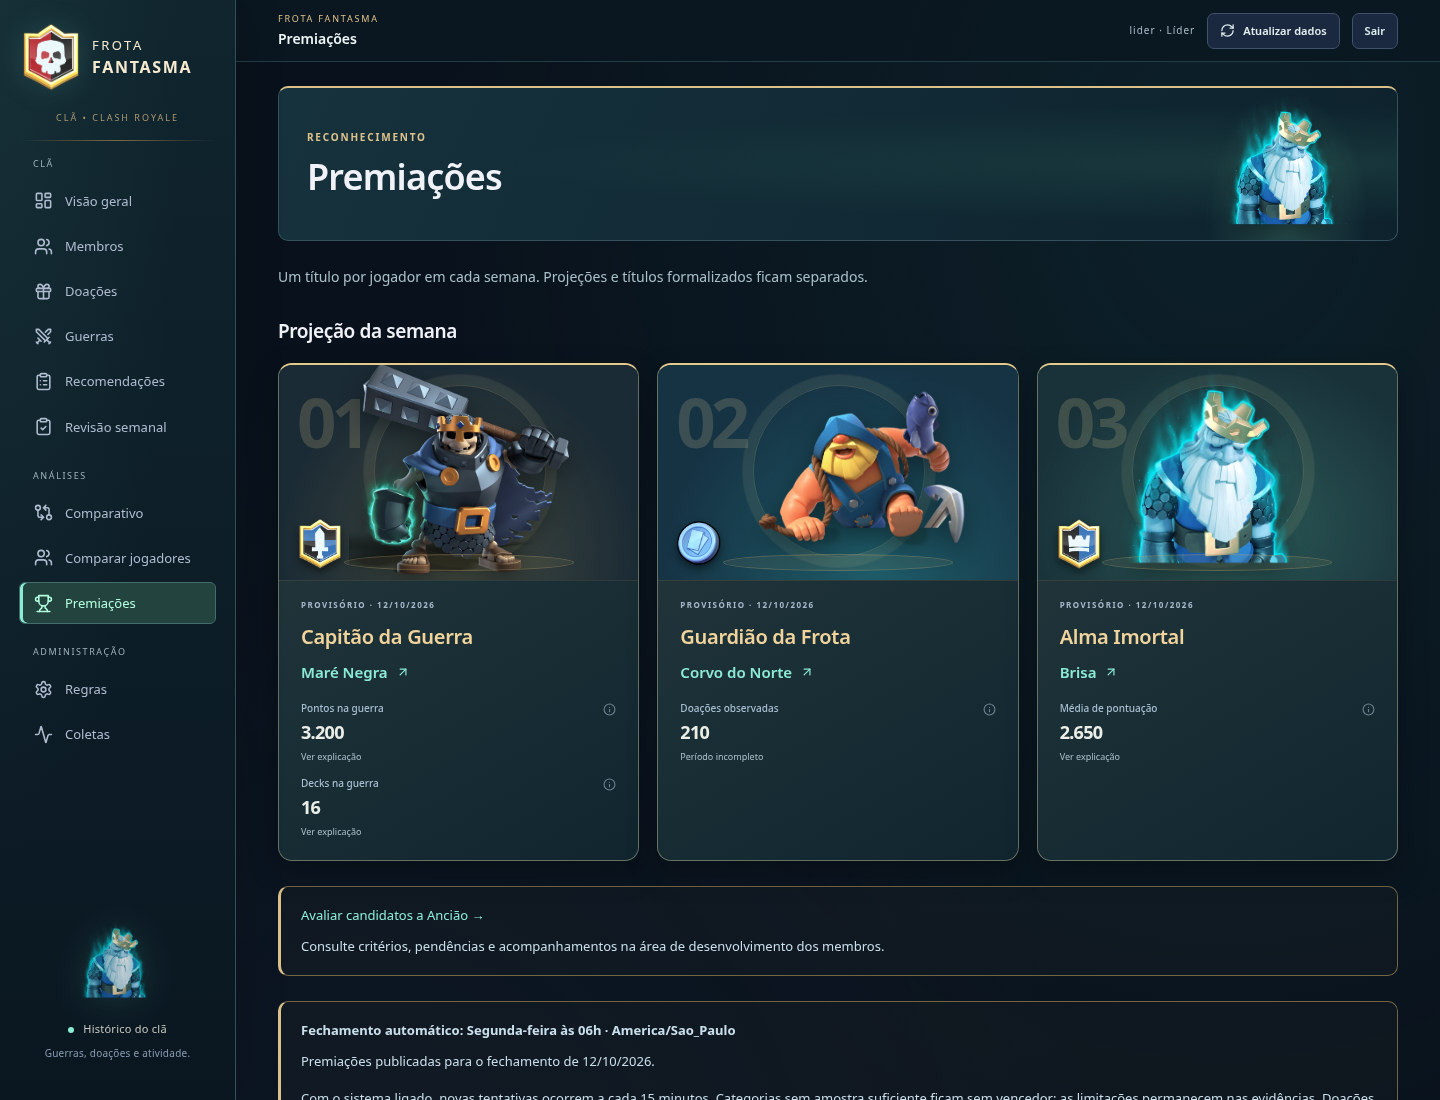
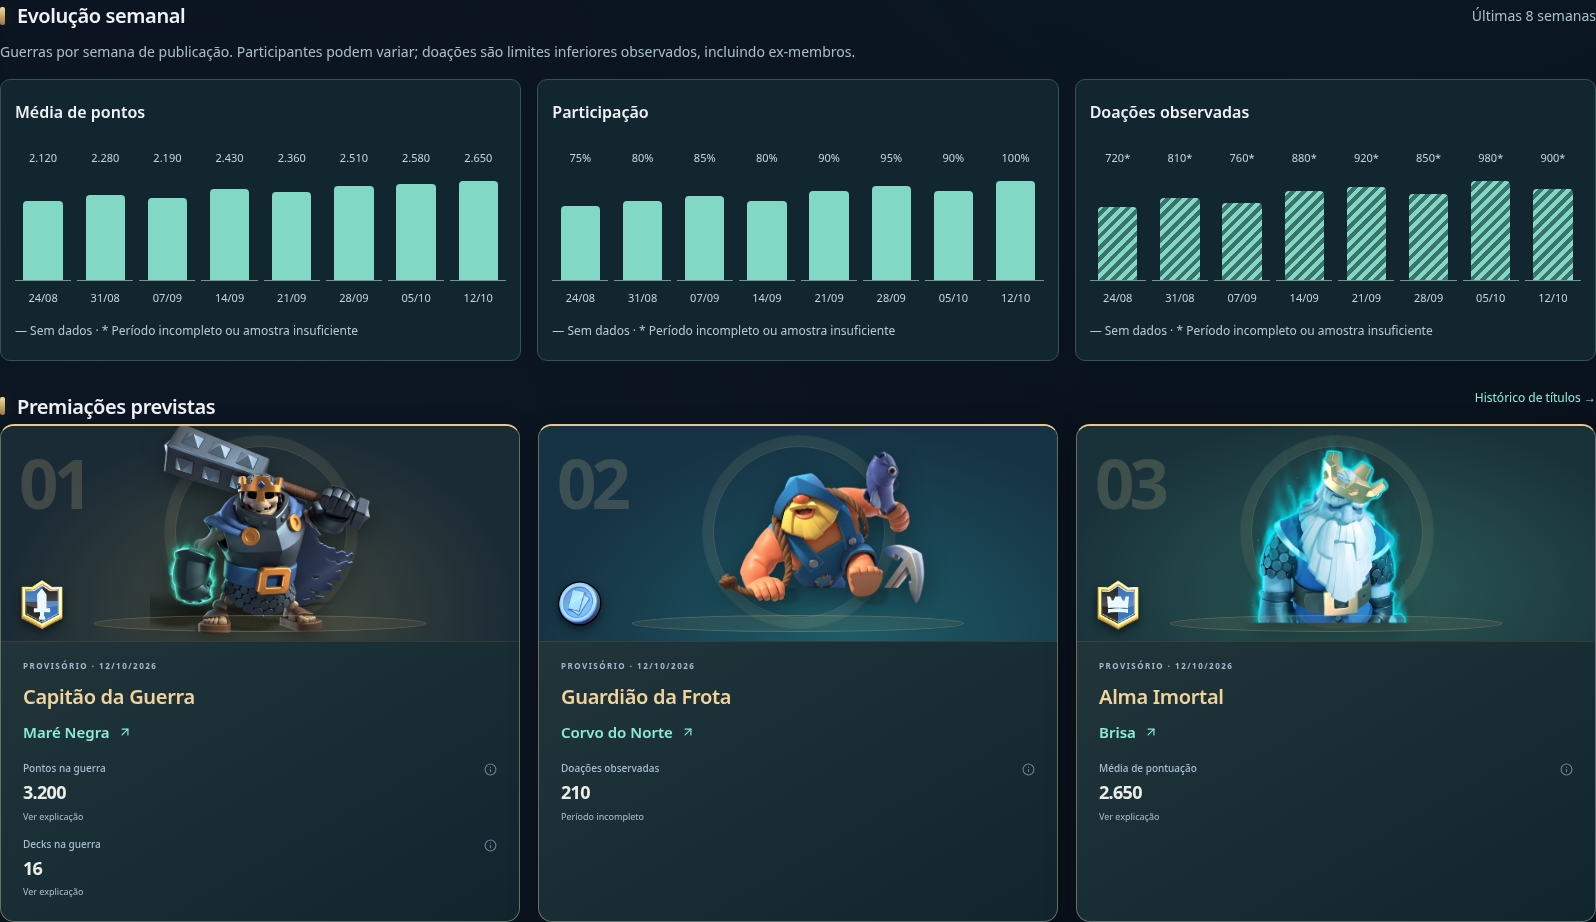
docs: destaca gráficos e premiações na galeria do README

diff --git a/frontend/e2e/analytics.spec.ts b/frontend/e2e/analytics.spec.ts
@@ -895,6 +895,15 @@ test.describe("galeria README", () => {
       p.metrics.standardDeckTargetPercent = metric((16-i)/16*100);
       p.metrics.recentAlerts = metric(i < 2 ? 0 : 1);
     });
+    demo.evolution = Array.from({length:8}, (_, i) => {
+      const week = new Date(`${demo.week}T00:00:00Z`);
+      week.setUTCDate(week.getUTCDate() - (7-i)*7);
+      return {week:week.toISOString().slice(0,10), metrics:{
+        averagePoints:metric([2120,2280,2190,2430,2360,2510,2580,2650][i]),
+        participationPercent:metric([75,80,85,80,90,95,90,100][i]),
+        observedDonations:metric([720,810,760,880,920,850,980,900][i], {incompletePeriod:true}),
+      }};
+    });
     demo.clan.currentMembers = metric(5);
     demo.clan.averageRecentPoints = metric(2650);
     demo.clan.participationPercent = metric(100);
@@ -931,15 +940,22 @@ test.describe("galeria README", () => {
       await expect(page.locator("main").getByRole("alert")).toHaveCount(0);
       expect(await page.evaluate(() => document.documentElement.scrollWidth <= innerWidth)).toBe(true);
       await page.mouse.move(0, 0);
-      await page.screenshot({path:`../docs/screenshots/readme/${name}.png`,animations:"disabled"});
+      let clip;
+      if (name === "awards") {
+        const charts = (await page.locator(".weekly-evolution").boundingBox())!;
+        const awards = (await page.locator(".overview > .awards").boundingBox())!;
+        clip = {x:charts.x,y:charts.y,width:charts.width,height:awards.y+awards.height-charts.y};
+      }
+      await page.screenshot({path:`../docs/screenshots/readme/${name}.png`,animations:"disabled",fullPage:!!clip,clip});
     };
     for (const [name, route] of [
       ["overview", "/"],
       ["war-comparison", "/comparativo"],
       ["candidates", "/recomendacoes"],
       ["player-profile", "/membros/%23P01"],
-      ["awards", "/premiacoes"],
+      ["awards", "/"],
     ]) {
+      if (name === "awards") await page.setViewportSize({width:1920,height:1400});
       await page.goto(route);
       await expect(page.locator("main h1")).toBeVisible();
       await expect(page.locator("main")).not.toContainText("Carregando registros…");
@@ -951,6 +967,7 @@ test.describe("galeria README", () => {
       }
       await capture(name);
     }
+    await page.setViewportSize({width:1440,height:1100});
     await page.goto("/membros/%23P01");
     await page.getByRole("button", {name:/Média das últimas 4 guerras/}).first().click();
     await expect(page.getByRole("dialog")).toBeVisible();

diff --git a/README.md b/README.md
@@ -92,13 +92,14 @@ na página.
 
 ## Premiações
 
-As premiações seguem três categorias:
+Os gráficos mostram a evolução semanal da pontuação, da participação e das
+doações. Logo abaixo, as premiações previstas destacam três categorias:
 
 - **Capitão da Guerra:** destaque pela pontuação na guerra.
 - **Guardião da Frota:** reconhecimento pelo maior contador de doações coletado na semana encerrada.
 - **Alma Imortal:** consistência ao longo das guerras analisadas.
 
-[![Mural de premiações com os três títulos, jogadores demonstrativos e indicadores que sustentam a projeção](docs/screenshots/readme/awards.png)](docs/screenshots/readme/awards.png)
+[![Gráficos de oito semanas de pontos, participação e doações, seguidos das três premiações previstas](docs/screenshots/readme/awards.png)](docs/screenshots/readme/awards.png)
 
 Os títulos seguem os critérios e a amostra disponíveis. A projeção é provisória;
 o reconhecimento formalizado fica registrado. Um jogador não acumula títulos

diff --git a/docs/FRONTEND.md b/docs/FRONTEND.md
@@ -138,7 +138,9 @@ UPDATE_README_SCREENSHOTS=1 npm run test:e2e --prefix frontend -- --project=desk
 Execute na raiz para regenerar as seis imagens em `docs/screenshots/readme/`.
 O fluxo usa somente fixtures, sem ler `.env` ou consultar o backend local;
 as chamadas de API são interceptadas. A data, o fuso, o idioma e a janela de
-1440 × 1100 ficam fixos. Comparativo e candidatos são capturados com a página
+1440 × 1100 ficam fixos nas capturas gerais. A imagem de gráficos e premiações
+usa uma janela de 1920 × 1400 e um recorte dessas duas seções da visão geral,
+com oito semanas de dados demonstrativos. Comparativo e candidatos são capturados com a página
 rolada para destacar os resultados. As imagens mostram a interface real, sem
 alterar o CSS para as capturas. A geração exige a variável acima e não sobrescreve
 as imagens durante a execução normal dos testes.
